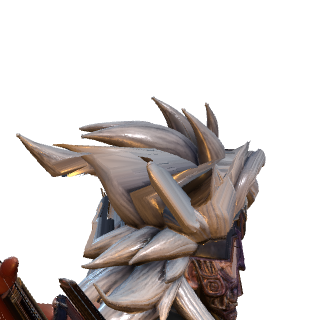
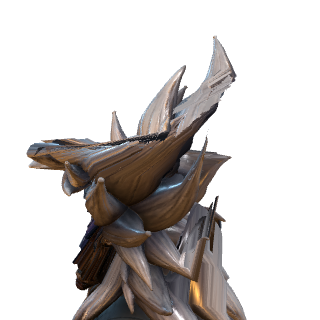
fix(models): Waterfall (+X, quarter turn) and Koreshi (-Z) no longer fight facing away
Waterfall faced the camera instead of her opponent; the feet cue had
turned her a half, so her raw mesh faces +X (a -X record was tried and
rejected by eye). Koreshi crouched with his weapon pointing away from his
opponent; a same-moment A/B of the real fight decided -Z (weapon at his
opponent, scroll box on his back). Cards recaptured; proof stills in
docs/proof/2026-11-06/cards-facing/.

Claude-Session: https://claude.ai/code/session_01CLThWtX97Fi7zFw5wnvydL

diff --git a/docs/proof/2026-11-06/cards-facing/README.md b/docs/proof/2026-11-06/cards-facing/README.md
@@ -25,3 +25,13 @@ profile (`slice-fight-before.png`). In the bind pose his chest is square to the 
 mesh faces +X, which a 180 deg turn cannot fix. `model-facing.json` gains quarter-turn records (`+X` / `-X`, read in
 `game/js/assets.js` as `facingYaw`); `slice-attire1` is `+X`. `slice-card-and-fight.png`: the new card from four
 angles (front at yaw 0) and the same fight, Slice now in profile facing Pantera.
+
+## Waterfall and Koreshi (same day)
+
+- **Waterfall:** her card showed her turned away and in a real fight she faced the camera instead of Pantera. The feet
+  cue had already turned her a half (`assets.facing = -1`); with it her face sat at yaw 270, so her raw mesh faces +X.
+  Recorded `+X` (a `-X` record was tried first and put her face at yaw 180: rejected). `waterfall-card-and-fight.png`:
+  four-angle probe (face front-on at yaw 0), the fight (in profile facing Pantera), old / new cards.
+- **Koreshi:** his card / poselab head views were ambiguous (helmet-like hair), so a same-moment A/B of the real fight
+  decided (`koreshi-fight-ab.png`, both at 7 s): unrecorded he crouches with his weapon arm pointing away from his
+  opponent; with `-Z` he stands bladed, weapon at his opponent, scroll box on his back. Recorded `-Z`.
